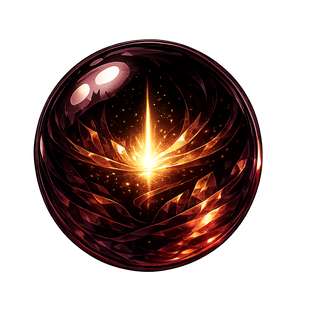
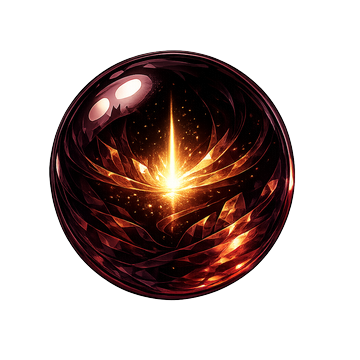
Artifacts: normalize all 3 Mega Soul orbs to identical 360x360 centered squares (fix size mismatch); bake new placement (26x52); circular glow hugging orb; cache mega3

Changed region(s): [[0.0871, 0.125, 0.871, 0.875], [0.3774, 0.3438, 0.4065, 0.375]]

diff --git a/artifacts-preview.html b/artifacts-preview.html
@@ -152,13 +152,12 @@ const MEGA=[
   {id:'siphon',name:'Greed',c:'#5fd8ff',found:true,power:'Double soul value',desc:'Greed feeds on greed — every soul you collect is worth double, your essence swelling twice as fast.',acq:'Hidden in the realm'},
   {id:'discord',name:'Discord',c:'#ffae57',found:true,power:'— yet to be unleashed —',desc:'A soul of pure discord, its chaotic power still being forged. What it will do remains unwritten.',acq:'Hidden in the realm'},
 ];
-const MSLOT={w:12, h:36, pos:[[28.39,51.24],[50.04,51.24],[71.61,51.24]]};
+const MSLOT={w:26, h:52, pos:[[28.95,51.24],[51.41,51.24],[71.99,51.24]]};
 const MIMG={vigor:'mega_vigor', siphon:'mega_siphon', discord:'mega_discord'};
 const mega=document.getElementById('megacase');
 MEGA.forEach((m,i)=>{ const d=document.createElement('div'); const hasImg=m.found&&MIMG[m.id]; d.className='mslot'+((m.found&&!hasImg)?' have':'');
   d.style.left=MSLOT.pos[i][0]+'%'; d.style.top=MSLOT.pos[i][1]+'%'; d.style.width=MSLOT.w+'%'; d.style.height=MSLOT.h+'%';
-  if(hasImg){ d.style.boxShadow='0 0 22px '+m.c+'aa';
-    d.innerHTML=`<img class="msimg" src="./assets/${MIMG[m.id]}.png?v=mega2">`; }
+  if(hasImg){ d.innerHTML=`<img class="msimg" style="filter:drop-shadow(0 0 9px ${m.c}cc) drop-shadow(0 2px 6px rgba(0,0,0,.5))" src="./assets/${MIMG[m.id]}.png?v=mega3">`; }
   else if(m.found){ d.style.boxShadow='0 0 20px '+m.c+'aa, inset 0 6px 16px rgba(255,255,255,.16), inset 0 -4px 12px rgba(0,0,0,.5)';
     d.innerHTML=`<div class="core2" style="background:radial-gradient(circle at 40% 32%, #fff 0%, ${m.c} 34%, ${shade(m.c,-75)} 82%, transparent 100%)"></div>`; }
   /* unfound: empty — backdrop socket shows through (still tappable for compendium) */
@@ -181,7 +180,7 @@ function openStone(s){ const page=document.getElementById('page'); const lock=!s
 function openMega(m){ const page=document.getElementById('page'); const lock=!m.found;
   const st=lock?'':`background:radial-gradient(circle at 40% 30%, #fff 0%, ${m.c} 32%, ${shade(m.c,-75)} 82%, #0a0714 100%);box-shadow:0 0 42px ${m.c}99, inset 0 8px 22px rgba(255,255,255,.15)`;
   page.innerHTML=`<div class="ribbon"></div><div class="cx" id="cx">✕</div>
-    <div class="pstone">${(!lock&&MIMG[m.id])?`<div class="pglow" style="background:${m.c}"></div><img src="./assets/${MIMG[m.id]}.png?v=mega2">`:`<div class="porb" style="${st}">${lock?'<span>?</span>':''}</div>`}</div>
+    <div class="pstone">${(!lock&&MIMG[m.id])?`<div class="pglow" style="background:${m.c}"></div><img src="./assets/${MIMG[m.id]}.png?v=mega3">`:`<div class="porb" style="${st}">${lock?'<span>?</span>':''}</div>`}</div>
     <div class="pname">${lock?'Undiscovered':m.name}</div><div class="pclass">MEGA SOUL</div>
     <div class="pblock"><div class="bt">⚡ EFFECT</div><div class="bv ${lock?'dim':''}">${lock?'? ? ?':m.power}</div><div class="bd">${lock?'Its essence is sealed until you claim one.':m.desc}</div></div>
     <div class="pblock"><div class="bt">📍 HOW TO ACQUIRE</div><div class="bv">${lock?'Hidden in the realm':m.acq}</div><div class="bd">${lock?'A Mega Soul lies somewhere in the realm, waiting to be claimed.':'Claimed — its power flows through you.'}</div></div>`;
